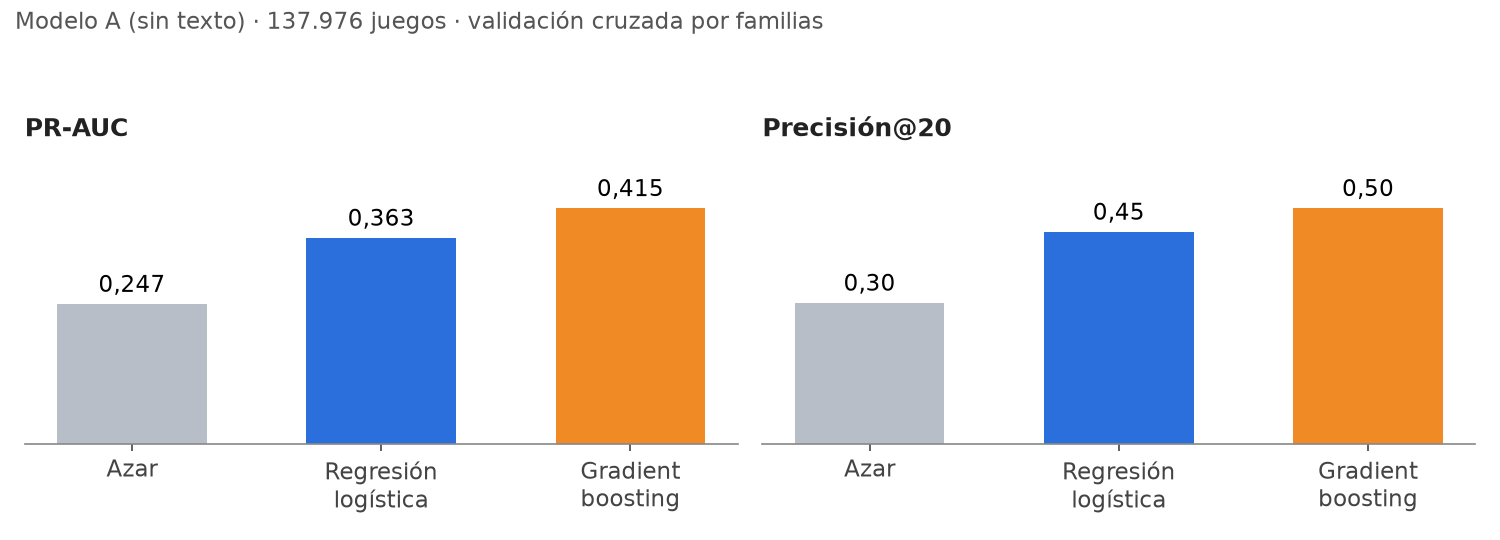
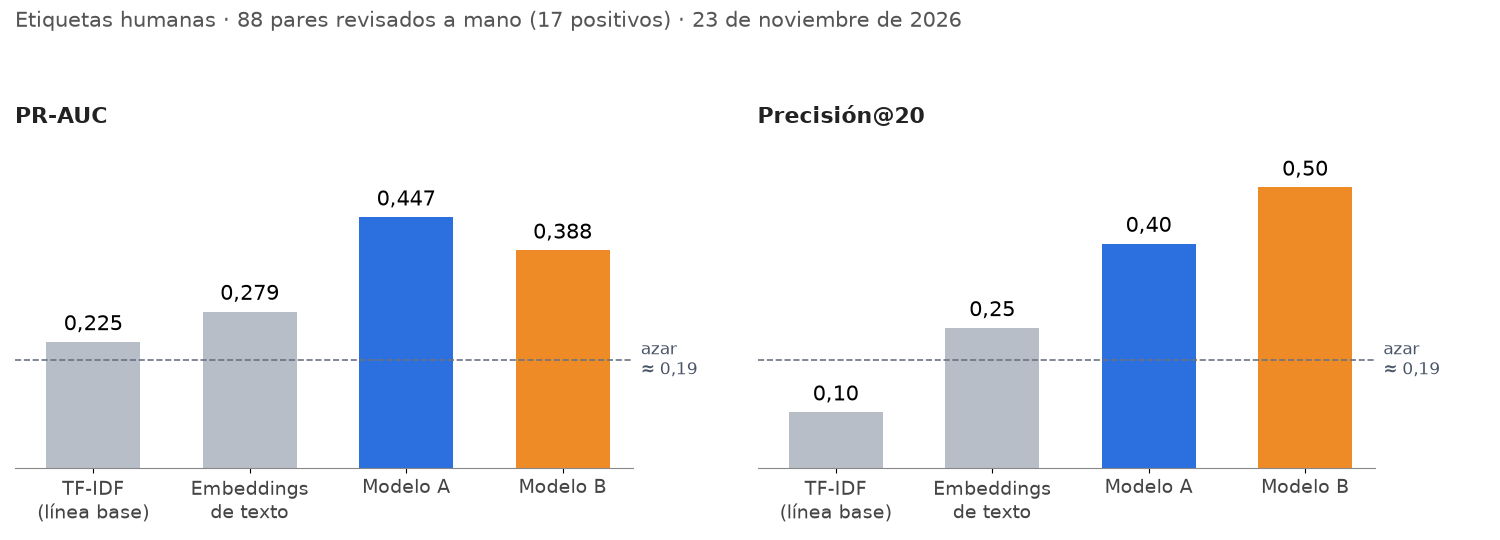
Docs: resultados con etiquetas humanas y Modelo B en la app
- README y guia tecnica: tabla con los 88 pares revisados a mano
  (TF-IDF 0,225, embeddings 0,279, Modelo A 0,447, Modelo B 0,388 de
  PR-AUC; precision@20 0,10 / 0,25 / 0,40 / 0,50).
- Grafico de resultados rehecho con esas cifras.
- Tabla del Modelo A con etiquetas automaticas de la corrida del 23 nov.
- La app publicada usa el Modelo B; limitaciones y estado al dia.

diff --git a/README.md b/README.md
@@ -214,33 +214,52 @@ El círculo se cierra cuando las etiquetas vuelven al notebook: así se entrena 
 
 ## 📊 Resultados
 
-Corrida completa en Google Colab (GPU T4), 4 de noviembre de 2026, sobre **137.976 juegos** de Steam. Todavía **no hay etiquetas humanas**, así que lo que se mide es el **Modelo A** con validación cruzada sobre 3.000 pares con etiquetas débiles (750 positivos):
+Corrida completa en Google Colab (GPU T4), 23 de noviembre de 2026, sobre **137.976 juegos** de Steam, con 3.000 pares de etiquetas automáticas y **88 pares revisados a mano** por el equipo (17 coincidencias relevantes y 71 casos legítimos o descartados).
+
+### Con etiquetas humanas (la evaluación que vale)
 
 <p align="center">
-  <img src="docs/img/resultados.png" alt="PR-AUC: azar 0,247, regresión logística 0,363, gradient boosting 0,415. Precisión@20: 0,30, 0,45 y 0,50" width="820">
+  <img src="docs/img/resultados.png" alt="Con 88 pares revisados a mano. PR-AUC: TF-IDF 0,225, embeddings 0,279, Modelo A 0,447, Modelo B 0,388. Precisión@20: 0,10, 0,25, 0,40 y 0,50. Azar: cerca de 0,19" width="820">
 </p>
+
+| Método | PR-AUC | ROC-AUC | Precisión@20 |
+|---|---|---|---|
+| Línea base: solo TF-IDF | 0,225 | 0,592 | 0,10 |
+| Embeddings de texto | 0,279 | 0,670 | 0,25 |
+| **Modelo A** (sin texto, etiquetas automáticas) | **0,447** | **0,800** | 0,40 |
+| **Modelo B** (todas las señales, etiquetas humanas) | 0,388 | 0,792 | **0,50** |
+| Azar (referencia) | ≈ 0,19 | 0,50 | ≈ 0,19 |
+
+* **El Modelo A duplica a la línea base de texto** (PR-AUC 0,45 contra 0,23), en pares que **nunca vio**: se entrenó solo con etiquetas automáticas.
+* **El Modelo B** se evalúa con validación cruzada en 5 partes sobre los mismos 88 pares. En el conjunto queda por debajo del A, pero arriba de la lista acierta más: **la mitad de sus 20 primeros pares son coincidencias reales**. Con 17 positivos aprende poco; es una primera versión.
+* **La app publicada usa el Modelo B** desde el 23 de noviembre (cuando el paquete trae Modelo B, la app ordena y explica con él).
+* ⚠ **Son 88 pares:** los números se mueven bastante con pocos datos. El notebook ya dejó un **lote nuevo de 100 pares** para seguir etiquetando.
+
+**De dónde salen estos números:** de la **sección 7** del [notebook principal](FairPlay_AI_Clasificador_Pares.ipynb) (*Evaluación con etiquetas humanas*). Las etiquetas están en `data/lote_etiquetado.xlsx`, que no se sube al repositorio.
+
+### Con etiquetas automáticas (Modelo A)
+
+Validación cruzada por familias sobre los 3.000 pares con etiquetas débiles (750 positivos), sección 6 del notebook:
 
 | Modelo | PR-AUC | ROC-AUC | Precisión@20 |
 |---|---|---|---|
-| Modelo A · regresión logística | 0,363 | 0,664 | 0,45 |
-| Modelo de comparación · gradient boosting | 0,415 | 0,722 | 0,50 |
+| Modelo A · regresión logística | 0,358 | 0,666 | 0,25 |
+| Modelo de comparación · gradient boosting | 0,459 | 0,752 | 0,60 |
 | Azar (referencia) | 0,247 | 0,499 | 0,30 |
 
-**Sobre el gradient boosting:** es un **modelo de comparación**. Se entrenó y se evaluó igual que la regresión logística: mismos 3.000 pares, mismas señales y misma validación cruzada por familias (`HistGradientBoostingClassifier` de scikit-learn, con árboles de profundidad 3). Rinde algo mejor (1 acierto más de cada 20), pero la app usa la regresión logística porque permite explicar cada resultado. Con las etiquetas humanas se vuelven a comparar los dos.
+**Sobre el gradient boosting:** es un **modelo de comparación**. Se entrenó y se evaluó igual que la regresión logística: mismos 3.000 pares, mismas señales y misma validación cruzada por familias (`HistGradientBoostingClassifier` de scikit-learn, con árboles de profundidad 3). Con las etiquetas automáticas rinde mejor, pero la app usa la regresión logística porque permite explicar cada resultado. Todavía no se compara con etiquetas humanas.
 
-**De dónde salen estos números:** de la **sección 6** del [notebook principal](FairPlay_AI_Clasificador_Pares.ipynb) (*Modelo A: reconoce clones sin mirar el texto*), que imprime esta tabla al terminar la validación cruzada. Los gráficos de este README se dibujaron con esos valores. Cualquiera puede repetir la corrida en Colab con el botón de arriba; la sección 12 del notebook explica cómo contar los resultados.
-
-**¿Qué señales pesan más?** En la regresión logística, la que más empuja es la coincidencia de géneros y tags, seguida por el parecido de las imágenes:
+**¿Qué señales pesan más?** En el Modelo A, la que más empuja es la coincidencia de géneros y tags, seguida por el parecido de las imágenes:
 
 <p align="center">
-  <img src="docs/img/pesos_senales.png" alt="Coeficientes: géneros y tags 1,02; imágenes CLIP 0,27; hash 0,14; títulos 0,12; distancia entre fechas 0,05" width="680">
+  <img src="docs/img/pesos_senales.png" alt="Coeficientes: géneros y tags 1,02; imágenes CLIP 0,26; hash 0,14; títulos 0,11; distancia entre fechas 0,06" width="680">
 </p>
 
 **Cómo leer estos números:**
 
-* ✅ **Lo que muestran:** sin mirar el texto, el modelo ordena los pares mejor que el azar (+47 % en PR-AUC, de 6 a 9 aciertos de cada 20 con la regresión logística). Las imágenes aportan información real.
-* ⚠ **Lo que no muestran:** las etiquetas débiles salen del texto, así que esto no mide "detectar copias". La evaluación que vale para el informe es la del **Modelo B con etiquetas humanas** (pendiente: ver [próximos pasos](#-estado-del-proyecto-y-próximos-pasos)).
-* 🚫 **Corrida descartada:** una versión anterior dio PR-AUC 0,669, pero estaba inflada: a los negativos les faltaba la imagen mucho más que a los positivos y el modelo aprendió "sin imagen = no es copia". Se corrigió entrenando solo con pares que tienen imagen. **No citar ese número.**
+* ✅ **Lo que muestran:** con pares revisados por personas, combinar imágenes, título, tags y fechas ordena mucho mejor que comparar solo el texto. Las imágenes aportan información real.
+* ⚠ **Lo que no muestran:** que el sistema detecte copias. Mide si pone arriba los pares que el equipo consideró dignos de revisión. Las etiquetas automáticas, además, salen del texto: miden "texto casi idéntico", no "copia".
+* 🚫 **Corrida descartada:** una versión anterior dio PR-AUC 0,669 con etiquetas automáticas, pero estaba inflada: a los negativos les faltaba la imagen mucho más que a los positivos y el modelo aprendió "sin imagen = no es copia". Se corrigió entrenando solo con pares que tienen imagen. **No citar ese número.**
 
 ---
 
@@ -378,6 +397,7 @@ Por qué se eligió cada pieza, y lo que se descartó a propósito, en la [Guía
 ## 🚧 Limitaciones
 
 * Las etiquetas débiles salen del texto: miden "texto casi idéntico", no "copia". Por eso hace falta el Modelo B con etiquetas humanas.
+* El Modelo B se entrenó con solo 88 pares (17 positivos), etiquetados por una persona. Sus números son preliminares y no hay todavía una medida de acuerdo entre etiquetadores.
 * El TF-IDF está pensado para inglés. Las descripciones en otros idiomas se filtran de las etiquetas débiles.
 * Pocas imágenes por juego: header y 3 capturas para los ~9 mil juegos de entrenamiento, y solo el header para el resto (con una sola imagen, `img_cos` sale algo más bajo). No se analizan videos ni jugabilidad.
 * La señal más fuerte del Modelo A es la coincidencia de tags, que también separa géneros: el modelo puede sobrevalorar pares del mismo género.
@@ -398,9 +418,10 @@ Lista completa en la [Guía técnica §11](docs/GUIA_TECNICA.md#11-limitaciones-
 | App publicada 24/7 con HTTPS y contraseña (Oracle Cloud) | nov 2026 | ✅ Lista |
 | App rediseñada para etiquetar: cola de revisión, progreso del equipo, saltar y deshacer | nov 2026 | ✅ Lista |
 | Búsqueda de pares sospechosos en las reseñas de los usuarios | nov 2026 | ✅ Primera corrida hecha |
-| Lote de 100 pares para etiquetar | nov 2026 | ✅ Generado · 🔄 etiquetado en curso |
+| Lote de 100 pares para etiquetar | nov 2026 | ✅ Etiquetado (93 pares útiles, 88 en el catálogo) |
 | **Modelo base funcionando** | 24 nov | ✅ Modelo A |
-| Modelo B y evaluación con etiquetas humanas | 27 nov | ⏳ Espera las etiquetas |
+| Modelo B y evaluación con etiquetas humanas | 27 nov | ✅ Entrenado el 23 nov · en la app publicada |
+| Segundo lote de etiquetas (más positivos para el Modelo B) | dic 2026 | 💡 Lote nuevo de 100 pares listo |
 | **Demo y README** | 30 nov | 🔄 En revisión |
 | **Presentación final (7 min)** | 3 dic | 🔄 En preparación |
 
@@ -427,7 +448,7 @@ Mostró que **combinar señales ayuda si la imagen es informativa**, pero los "e
 No. Calcula qué pares conviene que una persona revise primero. Decidir si hay copia requiere criterio humano y, a veces, legal.
 
 **¿Por qué una regresión logística y no un modelo más potente?**
-Porque se puede explicar: el aporte de cada señal es una multiplicación, y la app lo muestra. El *gradient boosting* rinde algo mejor (PR-AUC 0,415 frente a 0,363), pero no permite justificar cada resultado con esa claridad. En un sistema que apoya decisiones delicadas, se priorizó entender por qué.
+Porque se puede explicar: el aporte de cada señal es una multiplicación, y la app lo muestra. Con las etiquetas automáticas, el *gradient boosting* rinde mejor (PR-AUC 0,459 frente a 0,358), pero no permite justificar cada resultado con esa claridad. En un sistema que apoya decisiones delicadas, se priorizó entender por qué.
 
 **¿Por qué el Modelo A no mira el texto?**
 Sus etiquetas automáticas se crearon con una regla sobre el texto. Si el modelo viera el texto, solo aprendería esa regla. Al ocultárselo, tiene que aprender de imágenes, títulos y tags.

diff --git a/docs/GUIA_TECNICA.md b/docs/GUIA_TECNICA.md
@@ -154,14 +154,14 @@ Es un problema de **clasificación binaria sobre pares**, no sobre juegos indivi
 ### 6.3 Por qué hay dos modelos
 
 * **Modelo A (sin texto).** Se entrena con las etiquetas débiles **sin ver ninguna señal de texto**. Si las viera, aprendería la regla "texto idéntico = clon", que ya sabemos y que no sirve cuando el clon reescribe la descripción. Sin texto, el modelo tiene que descubrir qué *otras* señales (imágenes, título, tags, fechas) acompañan a un clon.
-* **Modelo B (todas las señales).** Se entrena **solo con etiquetas humanas**. Se activa cuando hay al menos 10 pares de cada clase.
+* **Modelo B (todas las señales).** Se entrena **solo con etiquetas humanas**. Se activa cuando hay al menos 10 pares de cada clase. **Si el paquete trae Modelo B, la app ordena y explica con él**; si no, usa el Modelo A. Desde el 23 de noviembre de 2026 la app publicada usa el Modelo B.
 
 Ambos son **regresiones logísticas**: cada señal recibe un peso, y ese peso se puede mostrar y explicar ("la imagen idéntica empujó la probabilidad hacia arriba"). Como **modelo de comparación** se entrena y evalúa igual un *gradient boosting*, para ver cuánto gana un modelo más flexible. Gana un poco (ver 6.7), pero no se puede explicar señal por señal, así que la app usa la regresión logística.
 
 ### 6.4 Cómo se evalúa sin hacer trampa
 
 * **Validación cruzada por grupos (`GroupKFold`).** Los juegos de una misma "familia" de clones quedan todos en el mismo grupo. Así el modelo nunca se evalúa con un clon cuya familia ya vio al entrenar.
-* **La evaluación que vale para el informe es la de las etiquetas humanas** (sección 7 del notebook), comparada con la **línea base**: usar solo `tfidf_cos`, que es lo que hace la app hoy.
+* **La evaluación que vale para el informe es la de las etiquetas humanas** (sección 7 del notebook), comparada con la **línea base**: ordenar solo por `tfidf_cos`, lo que haría una búsqueda por palabras.
 
 ### 6.5 Cómo llega el modelo a la app
 
@@ -187,17 +187,33 @@ flowchart LR
 | **ROC-AUC** | Probabilidad de que un positivo al azar quede por encima de un negativo al azar | Referencia estándar. |
 | **Precisión@20** | De los 20 pares que el modelo pone primero, cuántos son realmente positivos | Es lo que vive la persona usuaria: revisa los primeros resultados. |
 
-### 6.7 Resultados actuales (Modelo A)
+### 6.7 Resultados actuales (23 de noviembre de 2026)
 
-Validación cruzada por grupos sobre las etiquetas débiles, sin usar señales de texto (sección 6 del notebook principal):
+**Con etiquetas humanas** (sección 7 del notebook): 88 pares revisados a mano, 17 coincidencias relevantes y 71 casos legítimos o descartados. Otros 5 pares del lote se descartaron porque uno de los juegos no está en el catálogo.
+
+| Método | PR-AUC | ROC-AUC | Precisión@20 |
+|---|---|---|---|
+| Línea base: solo `tfidf_cos` | 0,225 | 0,592 | 0,10 |
+| Embeddings de texto (`emb_cos`) | 0,279 | 0,670 | 0,25 |
+| **Modelo A** (sin texto, etiquetas automáticas) | **0,447** | **0,800** | 0,40 |
+| **Modelo B** (todas las señales, validación cruzada en 5 partes) | 0,388 | 0,792 | **0,50** |
+| Azar (la proporción de positivos) | ≈ 0,19 | 0,50 | ≈ 0,19 |
+
+Cómo leerlo:
+
+* El Modelo A **no vio estos pares** al entrenar, así que su fila es una evaluación limpia: duplica a la línea base de texto.
+* El Modelo B se evalúa con validación cruzada estratificada (no por familias: con 17 positivos no alcanza para agrupar). En el conjunto queda por debajo del A, pero arriba de la lista acierta más. Con tan pocos positivos los números varían bastante: al repetir la validación con 20 particiones distintas, su PR-AUC fue de 0,39 a 0,51.
+* En el Modelo B pesan más el **título** (0,98) y los **tags** (0,99), seguidos por la cercanía de fechas (−0,56: lanzamientos más cercanos, más probable) y las imágenes (0,37). Las señales de descripción casi no pesan (`tfidf_cos` −0,05, `emb_cos` 0,07). En estos pares, los que el equipo marcó como relevantes no se distinguen por copiar el texto.
+
+**Con etiquetas automáticas** (sección 6, Modelo A): validación cruzada por grupos sobre 3.000 pares, sin señales de texto.
 
 | Modelo | PR-AUC | ROC-AUC | Precisión@20 |
 |---|---|---|---|
 | Al azar (referencia) | 0,247 | 0,499 | 0,30 |
-| **Modelo A · regresión logística** (el de la app) | 0,363 | 0,664 | 0,45 |
-| Modelo de comparación · gradient boosting | 0,415 | 0,722 | 0,50 |
+| **Modelo A · regresión logística** | 0,358 | 0,666 | 0,25 |
+| Modelo de comparación · gradient boosting | 0,459 | 0,752 | 0,60 |
 
-Cómo leerlo: el modelo ordena mejor que el azar usando solo imágenes, título, tags y fechas, pero todavía falla bastante. Estos números miden qué tan bien **reproduce las etiquetas débiles**, no qué tan bien detecta copias. La evaluación con etiquetas humanas (sección 7 del notebook) se llena cuando el equipo termine de etiquetar.
+Estos números miden qué tan bien el modelo **reproduce las etiquetas débiles**, no qué tan bien detecta copias. Por eso la tabla que vale para el informe es la de arriba. La corrida del 4 de noviembre dio 0,363 y 0,415 de PR-AUC: las cifras cambian un poco entre corridas porque las etiquetas débiles se arman con una muestra al azar.
 
 ### 6.8 La cola de revisión
 
